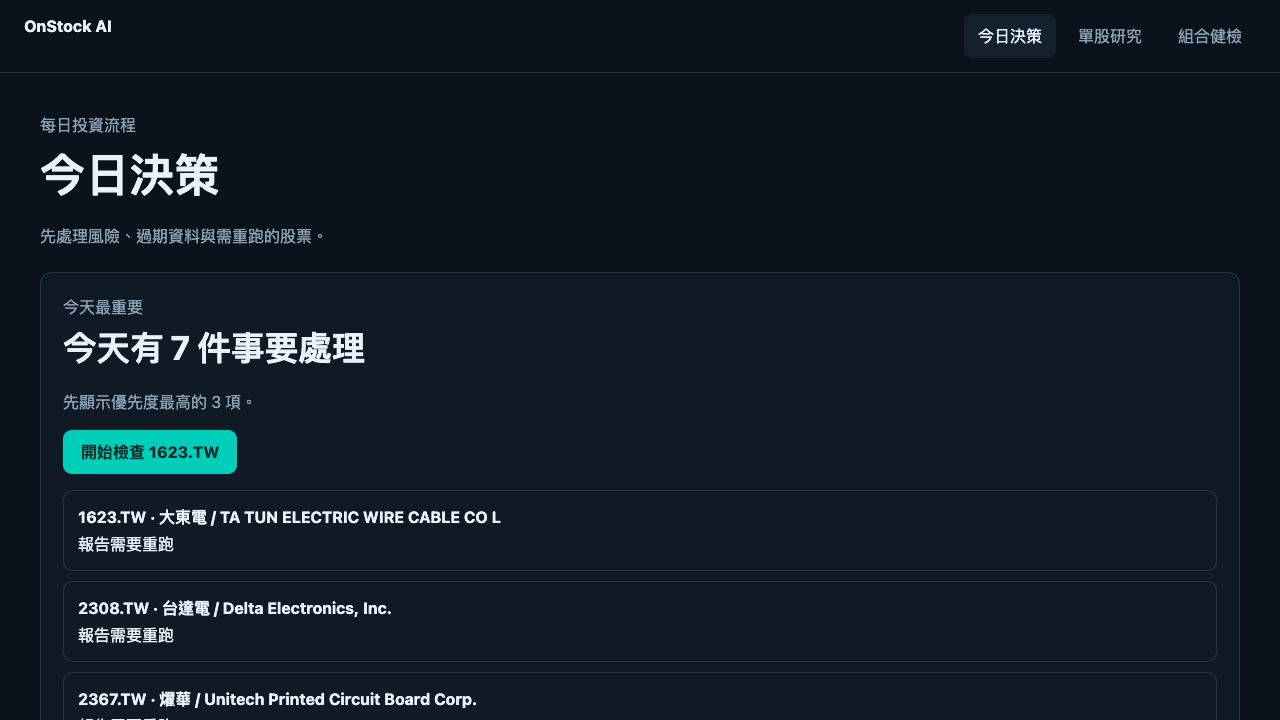
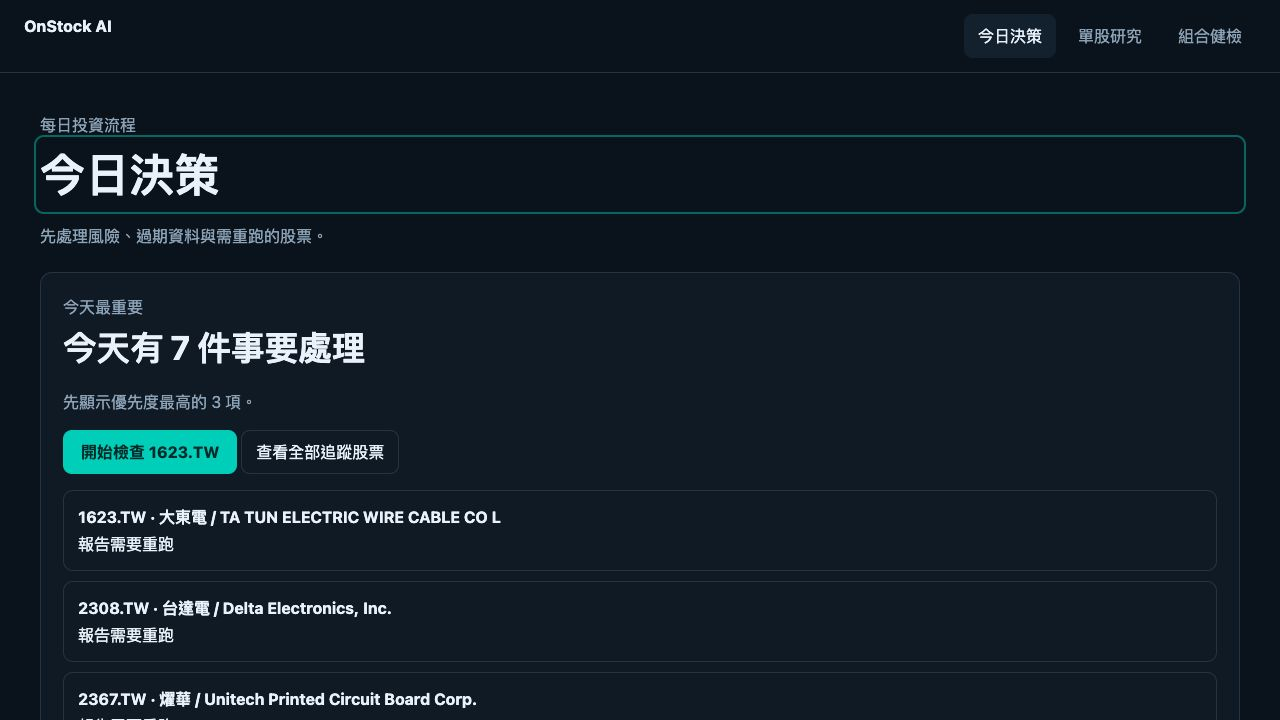
fix: close commercial workflow audit gaps

Changed region(s): [[0.1875, 0.6111, 0.3125, 0.6417]]

diff --git a/backend/static/commercial/research-workbench.html b/backend/static/commercial/research-workbench.html
@@ -4,10 +4,10 @@
   <meta charset="utf-8">
   <meta name="viewport" content="width=device-width, initial-scale=1">
   <title>OnStock 今日決策</title>
-  <link rel="stylesheet" href="/static/commercial/styles/tokens.css?v=20260711-simple">
-  <link rel="stylesheet" href="/static/commercial/styles/shell.css?v=20260711-simple">
-  <link rel="stylesheet" href="/static/commercial/styles/components.css?v=20260711-simple">
-  <link rel="stylesheet" href="/static/commercial/styles/responsive.css?v=20260711-simple">
+  <link rel="stylesheet" href="/static/commercial/styles/tokens.css?v=20260711-simple2">
+  <link rel="stylesheet" href="/static/commercial/styles/shell.css?v=20260711-simple2">
+  <link rel="stylesheet" href="/static/commercial/styles/components.css?v=20260711-simple2">
+  <link rel="stylesheet" href="/static/commercial/styles/responsive.css?v=20260711-simple2">
 </head>
 <body data-commercial-page="decision">
   <header class="commercial-topbar">
@@ -29,11 +29,12 @@
       <h2 id="decision-answer-title">正在整理待處理項目…</h2>
       <p id="decision-answer-detail" class="commercial-muted"></p>
       <a id="decision-primary" class="commercial-primary-action" href="/static/commercial/stock-detail.html" hidden>開始檢查</a>
+      <a id="decision-all-action" class="commercial-secondary-action" href="/#home-tab-tracking" hidden>查看全部追蹤股票</a>
       <a id="decision-empty-action" class="commercial-secondary-action" href="/#home-tab-tracking" hidden>設定追蹤股票</a>
       <ul id="decision-task-list" class="commercial-task-list" aria-label="今日待處理股票"></ul>
     </section>
     <section id="decision-source-status" class="commercial-source-status" aria-live="polite"></section>
   </main>
-  <script type="module" src="/static/commercial/pages/decision_page.js?v=20260711-simple"></script>
+  <script type="module" src="/static/commercial/pages/decision_page.js?v=20260711-simple2"></script>
 </body>
 </html>

diff --git a/backend/static/commercial/portfolio-dashboard.html b/backend/static/commercial/portfolio-dashboard.html
@@ -4,10 +4,10 @@
   <meta charset="utf-8">
   <meta name="viewport" content="width=device-width, initial-scale=1">
   <title>OnStock 組合健檢</title>
-  <link rel="stylesheet" href="/static/commercial/styles/tokens.css?v=20260711-simple">
-  <link rel="stylesheet" href="/static/commercial/styles/shell.css?v=20260711-simple">
-  <link rel="stylesheet" href="/static/commercial/styles/components.css?v=20260711-simple">
-  <link rel="stylesheet" href="/static/commercial/styles/responsive.css?v=20260711-simple">
+  <link rel="stylesheet" href="/static/commercial/styles/tokens.css?v=20260711-simple2">
+  <link rel="stylesheet" href="/static/commercial/styles/shell.css?v=20260711-simple2">
+  <link rel="stylesheet" href="/static/commercial/styles/components.css?v=20260711-simple2">
+  <link rel="stylesheet" href="/static/commercial/styles/responsive.css?v=20260711-simple2">
 </head>
 <body data-commercial-page="portfolio">
   <header class="commercial-topbar">
@@ -51,6 +51,6 @@ Cash,19,Cash,TW</textarea>
     <section id="portfolio-evidence" class="commercial-panel" aria-live="polite">完成健檢後顯示細節。</section>
     <section id="portfolio-source-status" class="commercial-source-status" aria-live="polite"></section>
   </main>
-  <script type="module" src="/static/commercial/pages/portfolio_page.js?v=20260711-simple"></script>
+  <script type="module" src="/static/commercial/pages/portfolio_page.js?v=20260711-simple2"></script>
 </body>
 </html>

diff --git a/backend/static/commercial/stock-detail.html b/backend/static/commercial/stock-detail.html
@@ -4,10 +4,10 @@
   <meta charset="utf-8">
   <meta name="viewport" content="width=device-width, initial-scale=1">
   <title>OnStock 單股研究</title>
-  <link rel="stylesheet" href="/static/commercial/styles/tokens.css?v=20260711-simple">
-  <link rel="stylesheet" href="/static/commercial/styles/shell.css?v=20260711-simple">
-  <link rel="stylesheet" href="/static/commercial/styles/components.css?v=20260711-simple">
-  <link rel="stylesheet" href="/static/commercial/styles/responsive.css?v=20260711-simple">
+  <link rel="stylesheet" href="/static/commercial/styles/tokens.css?v=20260711-simple2">
+  <link rel="stylesheet" href="/static/commercial/styles/shell.css?v=20260711-simple2">
+  <link rel="stylesheet" href="/static/commercial/styles/components.css?v=20260711-simple2">
+  <link rel="stylesheet" href="/static/commercial/styles/responsive.css?v=20260711-simple2">
 </head>
 <body data-commercial-page="stock">
   <header class="commercial-topbar">
@@ -45,6 +45,6 @@
     <section id="stock-evidence" class="commercial-panel" aria-live="polite"></section>
     <section id="stock-source-status" class="commercial-source-status" aria-live="polite"></section>
   </main>
-  <script type="module" src="/static/commercial/pages/stock_page.js?v=20260711-simple"></script>
+  <script type="module" src="/static/commercial/pages/stock_page.js?v=20260711-simple2"></script>
 </body>
 </html>

diff --git a/backend/static/commercial/pages/decision_page.js b/backend/static/commercial/pages/decision_page.js
@@ -6,6 +6,7 @@ const title = document.getElementById('decision-answer-title');
 const detail = document.getElementById('decision-answer-detail');
 const list = document.getElementById('decision-task-list');
 const primary = document.getElementById('decision-primary');
+const allAction = document.getElementById('decision-all-action');
 const emptyAction = document.getElementById('decision-empty-action');
 const statusRoot = document.getElementById('decision-source-status');
 
@@ -63,6 +64,7 @@ async function loadDecisionQueue() {
       title.textContent = '尚無追蹤股票';
       detail.textContent = '先建立追蹤清單，系統才會整理每日待辦。';
       primary.hidden = true;
+      allAction.hidden = true;
       emptyAction.hidden = false;
     } else {
       title.textContent = `今天有 ${allTasks.length} 件事要處理`;
@@ -72,6 +74,7 @@ async function loadDecisionQueue() {
       primary.href = stockPageHref(tasks[0].ticker, 'decision');
       primary.textContent = `開始檢查 ${tasks[0].ticker}`;
       primary.hidden = false;
+      allAction.hidden = false;
       emptyAction.hidden = true;
     }
     renderSourceStatus(statusRoot, {
@@ -84,6 +87,7 @@ async function loadDecisionQueue() {
     detail.textContent = '請確認服務狀態後重新整理頁面。';
     list.replaceChildren();
     primary.hidden = true;
+    allAction.hidden = true;
     emptyAction.hidden = true;
     renderSourceStatus(statusRoot, {
       state: 'error',

diff --git a/backend/static/commercial/styles/components.css b/backend/static/commercial/styles/components.css
@@ -169,5 +169,7 @@ button,
 
 /* Page headings receive programmatic focus so screen readers announce route changes. */
 .commercial-page h1[tabindex="-1"]:focus {
-  outline: none;
+  outline: 2px solid color-mix(in srgb, var(--commercial-primary) 45%, transparent);
+  outline-offset: 4px;
+  border-radius: 4px;
 }

diff --git a/tests/test_commercial_layout_pages.py b/tests/test_commercial_layout_pages.py
@@ -50,9 +50,12 @@ def test_decision_page_is_a_single_task_queue_without_demo_fallbacks():
     assert ">今日決策</h1>" in html
     assert html.count("commercial-primary-action") == 1
     assert 'id="decision-task-list"' in html
+    assert 'id="decision-all-action"' in html
+    assert ">查看全部追蹤股票</a>" in html
     assert 'type="module" src="/static/commercial/pages/decision_page.js' in html
     assert "/api/decision-tracking" in js
     assert "stockPageHref" in js
+    assert "allAction.hidden = false" in js
     assert "fallbackTickers" not in js
     assert "localStorage" not in js
 
@@ -104,6 +107,16 @@ def test_three_pages_share_navigation_and_do_not_load_legacy_bundle():
         assert '<a class="commercial-brand" href="/"' in html
 
 
+def test_three_pages_bust_cached_assets_with_the_same_current_version():
+    for filename in (
+        "research-workbench.html",
+        "stock-detail.html",
+        "portfolio-dashboard.html",
+    ):
+        html = read(filename)
+        assert html.count("?v=20260711-simple2") == 5
+
+
 def test_metrics_tabs_focus_and_visibility_follow_accessible_contracts():
     components = read("styles/components.css")
     shell = read("shared/shell.js")
@@ -118,7 +131,8 @@ def test_metrics_tabs_focus_and_visibility_follow_accessible_contracts():
     assert "focusPageHeading" in shell
     assert ":focus-visible" in components
     assert '.commercial-page h1[tabindex="-1"]:focus' in components
-    assert "outline: none" in components
+    assert "outline: 2px solid" in components
+    assert "outline: none" not in components
     assert "min-height: 44px" in components
     assert "[hidden]" in components
     assert ".commercial-source-status:empty" in components